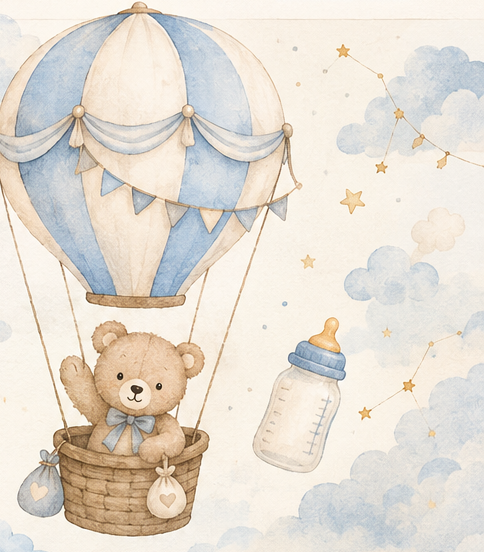
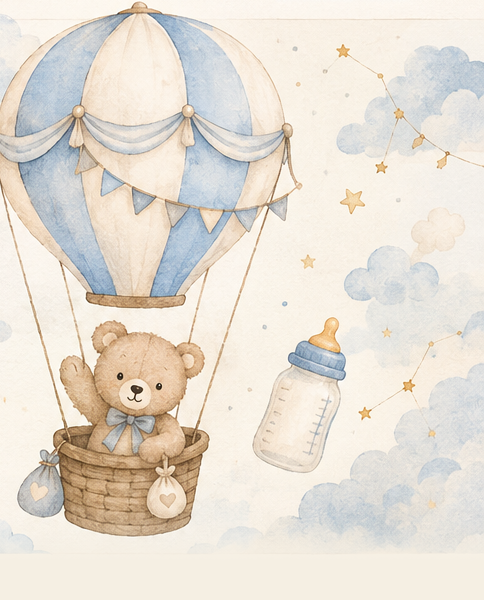
fix(hero): faixa de borda a borda com respiro na base
Claude-Session: https://claude.ai/code/session_0152WxZw4hx8nLNL4RbXDxPz

diff --git a/assets/style.css b/assets/style.css
@@ -57,10 +57,10 @@ svg{display:block}
 .hero-inner{position:relative;max-width:1180px;margin:0 auto;padding:36px 16px 440px;display:grid;gap:24px;align-items:center}
 @media(min-width:900px){.hero-inner{grid-template-columns:1fr 1fr;padding:48px 32px 56px;gap:32px}}
 .hero-text{position:relative;text-align:center;padding:32px 16px 8px}
-.hero-band{position:relative;width:100%;max-width:1440px;margin:0 auto}
+.hero-band{position:relative;width:100vw;margin-left:calc(50% - 50vw);margin-right:calc(50% - 50vw)}
 .hero-band-m{display:block;width:100%;height:auto}
 @media(min-width:900px){
-  .hero-band{aspect-ratio:1024/552;background:url('img/hero-band.png') center center/contain no-repeat}
+  .hero-band{aspect-ratio:1024/600;background:url('img/hero-band.png') center center/contain no-repeat}
   .hero-band-m{display:none}
   .hero-text{position:absolute;left:6%;top:50%;transform:translateY(-50%);width:41%;text-align:left}
   .hero-moon{display:none}
